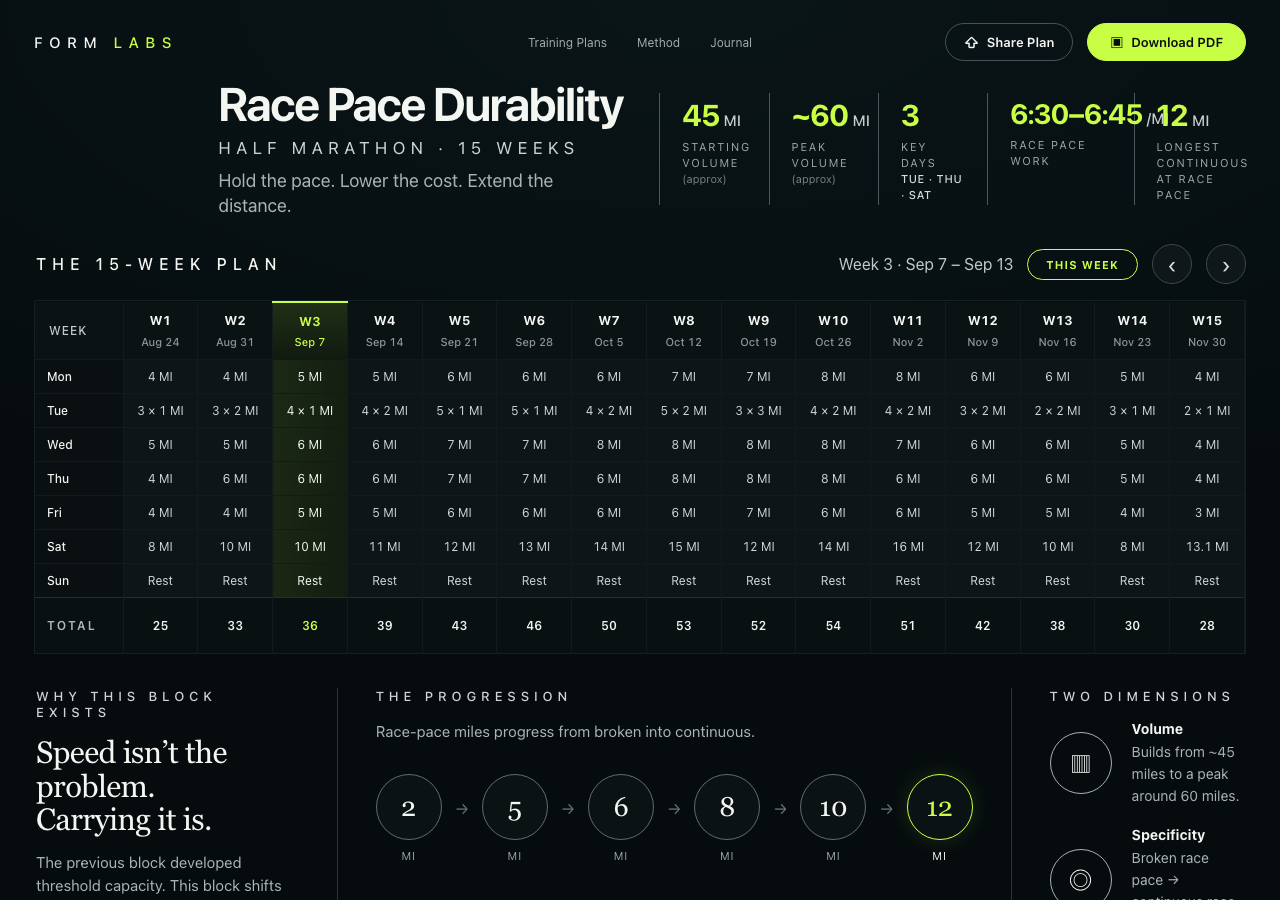
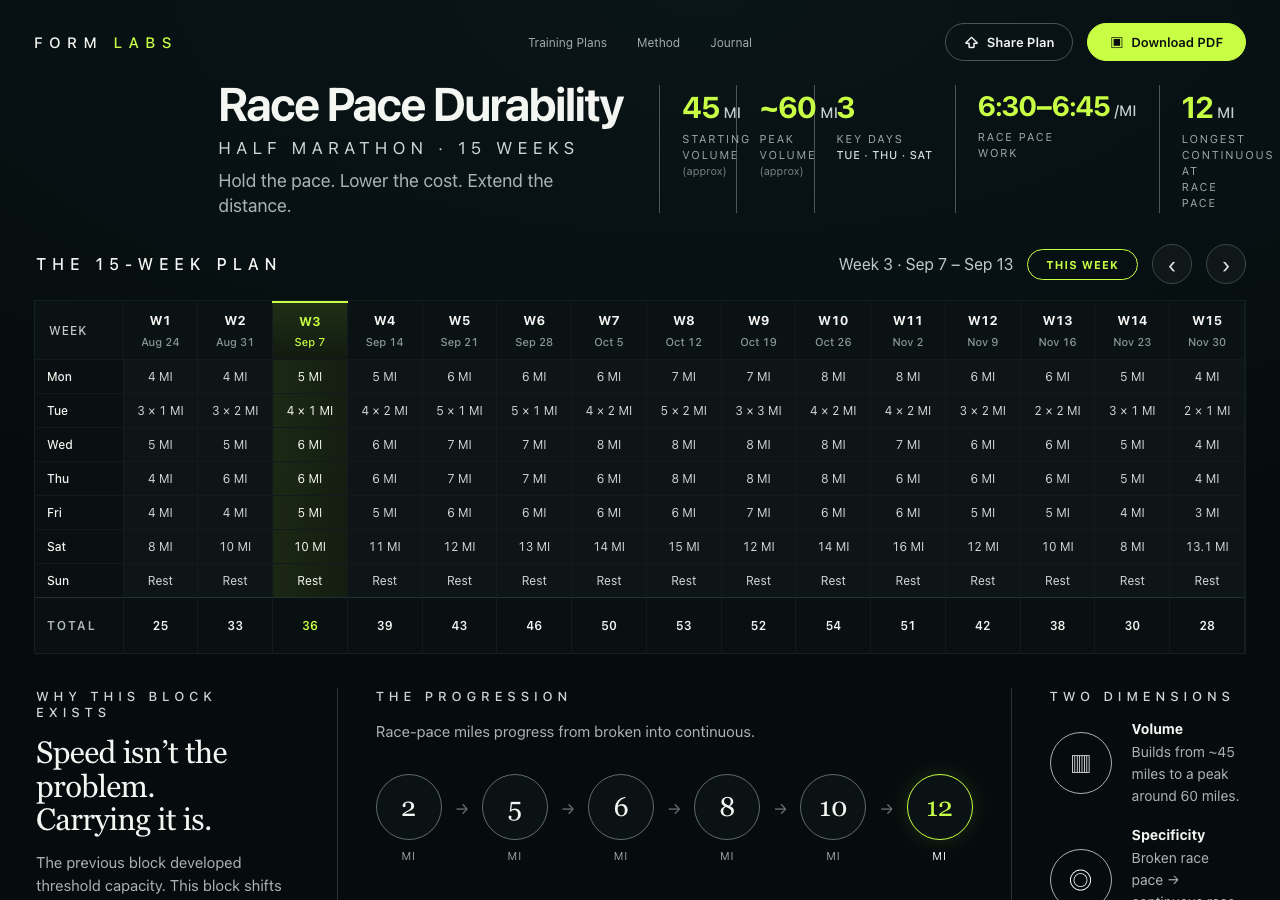
/MI was being cut on Brice's screen and not on mine, and that was the clue
The ratio was never the fix. `6:30–6:45 /MI` and `TUE · THU · SAT` are fixed
strings that cannot wrap or shrink, and this page loads no webfont — it asks for
Inter and takes whatever the machine has. Font <link> elements in the document:
zero. So a column sized by ratio fits on one computer and clips the unit on
another, which is precisely why my captures looked right while Brice's browser
cut it.

Both columns are now `auto`: each takes exactly the width its own text needs, in
whatever font actually rendered, and the flexible columns divide the rest.
Measured across Inter, Helvetica, Verdana, Georgia and Courier New — text width
moves 135px to 185px and the cell tracks it exactly, so clearance is a constant
23px. It cannot be cut again in any font. The key-days line gets nowrap, which
also puts TUE · THU · SAT back on one line and the last label back to three, both
as the reference has them.

The tooltip is dropped entirely on Brice's call — no title attribute, no help
cursor, nothing on hover. TOTAL is centred and the row carries no caption. It
gets revisited only if an athlete actually asks.

Recorded the larger version of the same problem rather than acting on it: with no
webfont, the whole page's typography differs from the reference on any machine
without Inter. Shipping Inter is an addition rather than a reproduction, so it
waits.

Local only. No data wired, no production change, no deploy.

Changed region(s): [[0.5312, 0.0933, 0.75, 0.2178], [0.75, 0.0933, 1.0, 0.2178]]

diff --git a/design-review/race-pace-durability/styles.css b/design-review/race-pace-durability/styles.css
@@ -45,14 +45,20 @@ button{cursor:pointer}
 h1{font-size:47px;line-height:1.02;margin:0 0 10px;letter-spacing:-.035em;font-weight:650}
 .eyebrow{font-size:17px;letter-spacing:.32em;color:#ced3d4;margin-bottom:10px}
 .subline{font-size:18px;color:#aab2b4;margin:0;line-height:1.4}
-.hero-stats{display:grid;grid-template-columns:repeat(3,minmax(0,1fr)) minmax(0,1.34fr) minmax(0,1.02fr);border-left:1px solid #4b575a;min-width:0}
-.metric{padding:7px 20px 2px 22px;border-right:1px solid #4b575a;min-height:92px;min-width:0}
+/* `6:30–6:45 /MI` is the one metric whose value is a fixed string that cannot
+   wrap or shrink, and this page loads no webfont — it asks for Inter and takes
+   whatever the machine has. So a column sized by ratio fits on one computer and
+   clips the unit on another. That column is `auto`: it takes exactly the width
+   its own text needs, in whatever font actually rendered, and the four flexible
+   columns divide what is left. It cannot be cut again. */
+.hero-stats{display:grid;grid-template-columns:repeat(2,minmax(0,1fr)) auto auto minmax(0,1.12fr);border-left:1px solid #4b575a;min-width:0}
+.metric{padding:7px 22px 2px 22px;border-right:1px solid #4b575a;min-height:92px;min-width:0}
 .metric:last-child{border-right:0}
 .metric strong{display:block;color:var(--lime);font-size:30px;line-height:1;letter-spacing:-.035em;font-weight:700;white-space:nowrap}
 .metric strong span{font-size:15px;color:#c6cdce;letter-spacing:.02em;font-weight:500}
 .metric small{display:block;margin-top:9px;color:#9ca5a7;font-size:11px;line-height:1.45;letter-spacing:.16em}
 .metric small em{font-style:normal;letter-spacing:0;color:#778183}
-.metric small b{color:#d6dcdd;font-weight:500;letter-spacing:.06em}
+.metric small b{color:#d6dcdd;font-weight:500;letter-spacing:.06em;white-space:nowrap}
 .metric.wide strong{font-size:28px}
 
 .plan-section{margin-top:0}
@@ -74,7 +80,7 @@ h1{font-size:47px;line-height:1.02;margin:0 0 10px;letter-spacing:-.035em;font-w
 .matrix tbody td{height:34px;text-align:center;background:#0e1517;color:#d0d6d7;font-size:12px;border-top:1px solid #121a1d;border-right:1px solid #131b1e}
 .matrix tbody td:nth-child(4){background:linear-gradient(90deg,rgba(139,184,56,.16),rgba(80,104,32,.18));color:#f3f6ef}
 .matrix tbody tr.total th,.matrix tbody tr.total td{height:56px;background:#081012;border-top:1px solid #223034;font-weight:600;color:#f1f4ef}
-.matrix tbody tr.total th{font-size:12px;letter-spacing:.18em;color:#afb7b9;cursor:help}
+.matrix tbody tr.total th{font-size:12px;letter-spacing:.18em;color:#afb7b9}
 .matrix tbody tr.total td:nth-child(4){color:var(--lime)}
 
 .method-grid{display:grid;grid-template-columns:1.08fr 1.48fr .84fr;margin-top:34px;border-bottom:1px solid #2a3639;padding-bottom:28px}

diff --git a/design-review/race-pace-durability/index.html b/design-review/race-pace-durability/index.html
@@ -83,7 +83,7 @@
             <tr><th>Fri</th><td>4 MI</td><td>4 MI</td><td>5 MI</td><td>5 MI</td><td>6 MI</td><td>6 MI</td><td>6 MI</td><td>6 MI</td><td>7 MI</td><td>6 MI</td><td>6 MI</td><td>5 MI</td><td>5 MI</td><td>4 MI</td><td>3 MI</td></tr>
             <tr><th>Sat</th><td>8 MI</td><td>10 MI</td><td>10 MI</td><td>11 MI</td><td>12 MI</td><td>13 MI</td><td>14 MI</td><td>15 MI</td><td>12 MI</td><td>14 MI</td><td>16 MI</td><td>12 MI</td><td>10 MI</td><td>8 MI</td><td>13.1 MI</td></tr>
             <tr><th>Sun</th><td>Rest</td><td>Rest</td><td>Rest</td><td>Rest</td><td>Rest</td><td>Rest</td><td>Rest</td><td>Rest</td><td>Rest</td><td>Rest</td><td>Rest</td><td>Rest</td><td>Rest</td><td>Rest</td><td>Rest</td></tr>
-            <tr class="total"><th title="Weekly miles (approx)">TOTAL</th><td>25</td><td>33</td><td>36</td><td>39</td><td>43</td><td>46</td><td>50</td><td>53</td><td>52</td><td>54</td><td>51</td><td>42</td><td>38</td><td>30</td><td>28</td></tr>
+            <tr class="total"><th>TOTAL</th><td>25</td><td>33</td><td>36</td><td>39</td><td>43</td><td>46</td><td>50</td><td>53</td><td>52</td><td>54</td><td>51</td><td>42</td><td>38</td><td>30</td><td>28</td></tr>
           </tbody>
         </table>
       </div>

diff --git a/design-review/race-pace-durability/DIFFERENCES.md b/design-review/race-pace-durability/DIFFERENCES.md
@@ -1,4 +1,4 @@
-# Race Pace Durability — static pass 3
+# Race Pace Durability — static pass 4
 
 Working copy of `design/reference/`. **Three approved changes, nothing else.**
 No data wiring, no responsive work, no new pages, no production change.
@@ -34,18 +34,28 @@ went 22/24 → 18/20 so five metrics breathe in the narrower strip.
 
 Now zero overflow at 1280, 1440, 1600 and 2000.
 
-**2b · `/MI` was touching its own divider.** Five equal columns gave
-`6:30–6:45 /MI` — much the longest string in the strip — the same width as `3`,
-so it ran to the edge of its cell and the rule landed on the unit. The strip is
-now `1fr 1fr 1fr 1.34fr 1.02fr`: the race-pace metric takes the extra, nothing
-else changes, and no typeface got smaller. **21px of clearance at every width.**
+**2b · `/MI` could still be cut, and the cause was not the ratio.**
+`6:30–6:45 /MI` and `TUE · THU · SAT` are fixed strings that cannot wrap or
+shrink — and **this page loads no webfont.** It asks for Inter and takes whatever
+the machine happens to have: `<link>` elements for fonts in the document, 0. So a
+column sized by ratio fits on one computer and clips the unit on another, which
+is exactly why it looked right in my captures and wrong on Brice's screen.
 
-**2c · `Weekly miles (approx)` is gone from the layout.** It was pinned
+Both of those columns are now `auto` — each takes precisely the width its own
+text needs, in whatever font actually rendered, and the three flexible columns
+divide what is left. Measured across Inter, Helvetica, Verdana, Georgia and
+Courier New: text width moves 135px → 185px and the cell tracks it exactly, so
+**clearance is a constant 23px** and the unit cannot be cut in any font.
+
+`white-space:nowrap` on the key-days line, which the reference has on one line.
+
+**2c · `Weekly miles (approx)` is gone.** It was pinned
 bottom-right under W15's `28`, reading as a footnote to the last week rather than
 a caption for the row. Moving it under `TOTAL` fixed the meaning and still added
-clutter to a row that is already legible, so it is removed. The fact survives as
-the `TOTAL` cell's own tooltip — hover, with a `help` cursor — which costs no
-space and adds no element. `TOTAL` is centred again.
+clutter to a row that is already legible, so it is removed. The tooltip idea is dropped too, on
+Brice's call — no `title`, no help cursor, nothing on hover. `TOTAL` is centred
+again and the row carries no caption. It gets revisited only if an athlete
+actually asks what the number is.
 
 **2d · No white seam on overscroll.** A gradient is a background *image*, sized
 to the element's box; rubber-banding past that box shows the background
@@ -92,6 +102,13 @@ and there is no responsive CSS in the prototype at all — only a print block. S
 The 390 and 844 screenshots are of that, and they are honest: this is what the
 approved prototype does at those sizes. Responsive was explicitly out of scope
 for this pass, so nothing was invented to hide it.
+
+**The page loads no webfont, and that is a fidelity risk beyond one metric.**
+The stack is `Inter, ui-sans-serif, -apple-system, …` with nothing fetched, so
+every machine renders this page in whatever it has. The metrics no longer break
+because of it, but the *typography* still differs from the reference on any
+machine without Inter. Fixing it means shipping or linking Inter, which is an
+addition rather than a reproduction — so it waits for your word.
 
 **Two icon sets are text glyphs.** `⇧ ▣` in the header and `▥ ◎` in TWO
 DIMENSIONS. The reference has properly drawn marks. Replacing them means drawing
